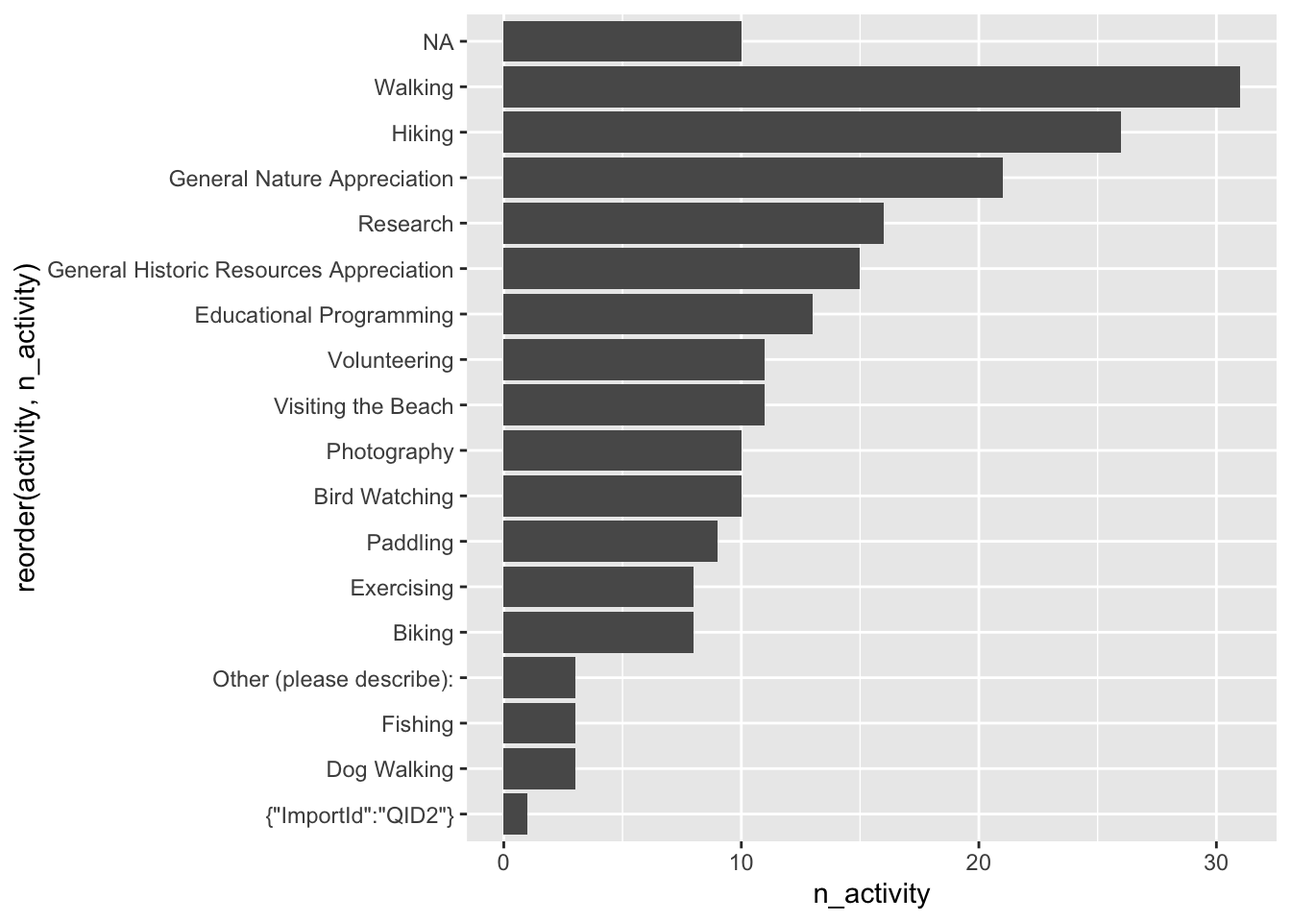
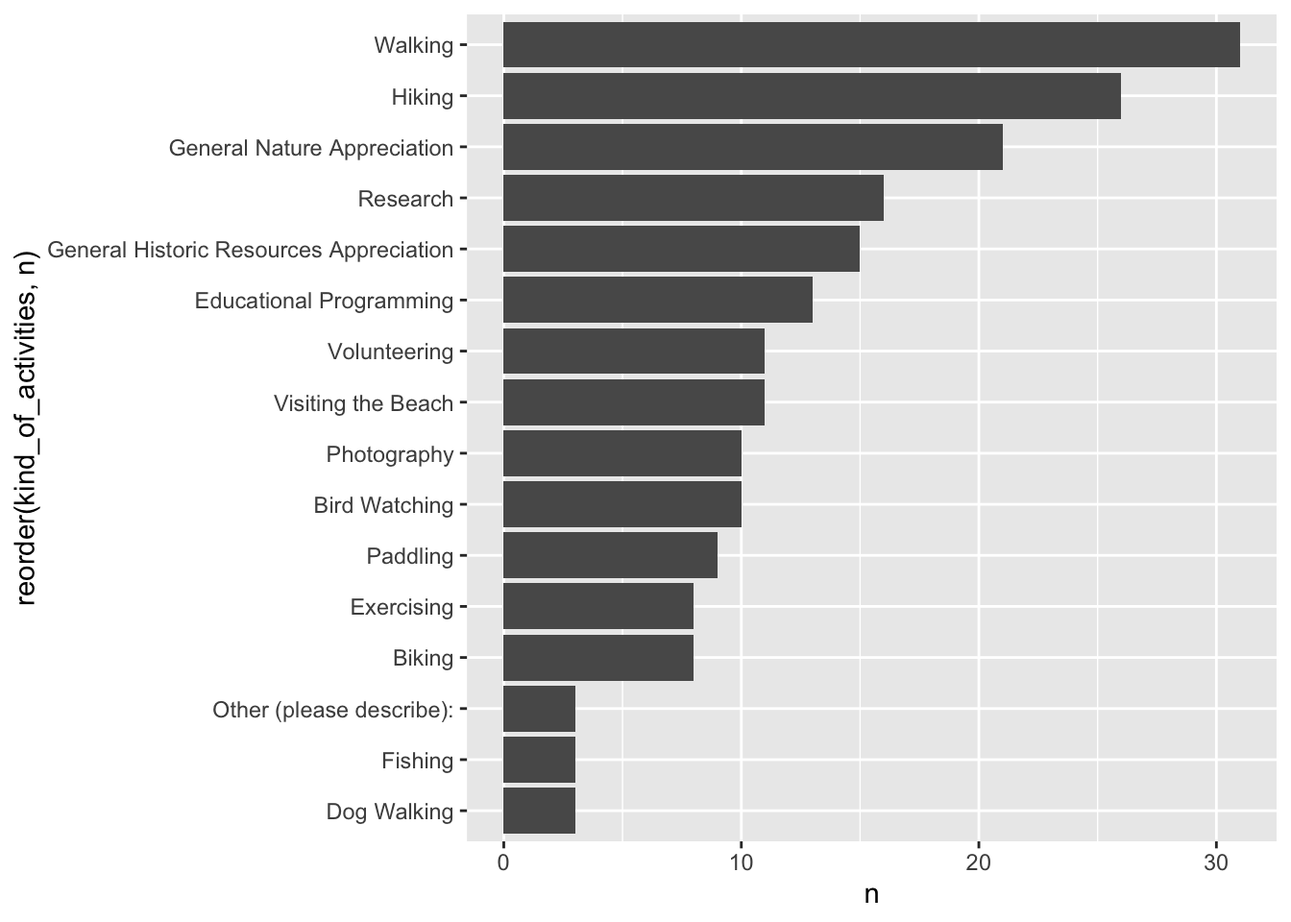
fix factors on age range

diff --git a/survey-data-analysis-nerr.html b/survey-data-analysis-nerr.html
@@ -142,7 +142,8 @@ The following objects are masked from 'package:stats':
 <div class="sourceCode cell-code" id="cb7"><pre class="sourceCode r code-with-copy"><code class="sourceCode r"><span id="cb7-1"><a href="#cb7-1" aria-hidden="true" tabindex="-1"></a><span class="co"># get the first row as the col names</span></span>
 <span id="cb7-2"><a href="#cb7-2" aria-hidden="true" tabindex="-1"></a>survey_data_q <span class="ot">&lt;-</span></span>
 <span id="cb7-3"><a href="#cb7-3" aria-hidden="true" tabindex="-1"></a>  survey_data <span class="sc">%&gt;%</span></span>
-<span id="cb7-4"><a href="#cb7-4" aria-hidden="true" tabindex="-1"></a>  <span class="fu">row_to_names</span>(<span class="at">row_number =</span> <span class="dv">1</span>)</span></code><button title="Copy to Clipboard" class="code-copy-button"><i class="bi"></i></button></pre></div>
+<span id="cb7-4"><a href="#cb7-4" aria-hidden="true" tabindex="-1"></a>  <span class="fu">row_to_names</span>(<span class="at">row_number =</span> <span class="dv">1</span>) <span class="sc">%&gt;%</span> </span>
+<span id="cb7-5"><a href="#cb7-5" aria-hidden="true" tabindex="-1"></a>  <span class="fu">slice</span>(<span class="sc">-</span><span class="dv">1</span>)</span></code><button title="Copy to Clipboard" class="code-copy-button"><i class="bi"></i></button></pre></div>
 </div>
 <div class="cell">
 <div class="sourceCode cell-code" id="cb8"><pre class="sourceCode r code-with-copy"><code class="sourceCode r"><span id="cb8-1"><a href="#cb8-1" aria-hidden="true" tabindex="-1"></a><span class="co"># Q1: Have you visited the GTM Research Reserve?</span></span>
@@ -158,20 +159,190 @@ The following objects are masked from 'package:stats':
 <div class="cell">
 <div class="sourceCode cell-code" id="cb9"><pre class="sourceCode r code-with-copy"><code class="sourceCode r"><span id="cb9-1"><a href="#cb9-1" aria-hidden="true" tabindex="-1"></a><span class="co"># Q2: When you come to the Guana Tolomato Matanzas (GTM) Research Reserve, what kind of activities do you engage in?</span></span>
 <span id="cb9-2"><a href="#cb9-2" aria-hidden="true" tabindex="-1"></a>survey_data_q  <span class="sc">%&gt;%</span></span>
-<span id="cb9-3"><a href="#cb9-3" aria-hidden="true" tabindex="-1"></a>  <span class="fu">select</span>(<span class="st">`</span><span class="at">When you visit the GTM Research Reserve, what kind of activities do you engage in? Check all that apply. - Selected Choice</span><span class="st">`</span>) <span class="sc">%&gt;%</span></span>
-<span id="cb9-4"><a href="#cb9-4" aria-hidden="true" tabindex="-1"></a><span class="fu">mutate</span>(<span class="at">activity =</span> <span class="fu">strsplit</span>(<span class="st">`</span><span class="at">When you visit the GTM Research Reserve, what kind of activities do you engage in? Check all that apply. - Selected Choice</span><span class="st">`</span>, <span class="st">","</span>)) <span class="sc">%&gt;%</span> </span>
-<span id="cb9-5"><a href="#cb9-5" aria-hidden="true" tabindex="-1"></a>  <span class="fu">unnest</span>(activity) <span class="sc">%&gt;%</span> </span>
-<span id="cb9-6"><a href="#cb9-6" aria-hidden="true" tabindex="-1"></a>  <span class="fu">mutate</span>(<span class="at">value =</span> <span class="dv">1</span>)  <span class="sc">%&gt;%</span> </span>
-<span id="cb9-7"><a href="#cb9-7" aria-hidden="true" tabindex="-1"></a>  <span class="fu">group_by</span>(activity) <span class="sc">%&gt;%</span> </span>
-<span id="cb9-8"><a href="#cb9-8" aria-hidden="true" tabindex="-1"></a>  <span class="fu">summarise</span>(<span class="at">n_activity =</span> <span class="fu">sum</span>(value)) <span class="sc">%&gt;%</span> </span>
-<span id="cb9-9"><a href="#cb9-9" aria-hidden="true" tabindex="-1"></a>  <span class="fu">ggplot</span>() <span class="sc">+</span></span>
-<span id="cb9-10"><a href="#cb9-10" aria-hidden="true" tabindex="-1"></a>    <span class="fu">aes</span>(<span class="fu">reorder</span>(activity, n_activity), n_activity) <span class="sc">+</span></span>
+<span id="cb9-3"><a href="#cb9-3" aria-hidden="true" tabindex="-1"></a>  <span class="fu">select</span>(<span class="at">kind_of_activities =</span> <span class="st">`</span><span class="at">When you visit the GTM Research Reserve, what kind of activities do you engage in? Check all that apply. - Selected Choice</span><span class="st">`</span>) <span class="sc">%&gt;%</span></span>
+<span id="cb9-4"><a href="#cb9-4" aria-hidden="true" tabindex="-1"></a>  <span class="fu">separate_rows</span>(kind_of_activities, <span class="at">sep =</span> <span class="st">","</span>) <span class="sc">%&gt;%</span> </span>
+<span id="cb9-5"><a href="#cb9-5" aria-hidden="true" tabindex="-1"></a>  <span class="fu">group_by</span>(kind_of_activities) <span class="sc">%&gt;%</span> </span>
+<span id="cb9-6"><a href="#cb9-6" aria-hidden="true" tabindex="-1"></a>  <span class="fu">summarise</span>(<span class="at">n =</span> <span class="fu">n</span>()) <span class="sc">%&gt;%</span> </span>
+<span id="cb9-7"><a href="#cb9-7" aria-hidden="true" tabindex="-1"></a>  <span class="fu">drop_na</span>() <span class="sc">%&gt;%</span> </span>
+<span id="cb9-8"><a href="#cb9-8" aria-hidden="true" tabindex="-1"></a>  <span class="fu">ggplot</span>() <span class="sc">+</span></span>
+<span id="cb9-9"><a href="#cb9-9" aria-hidden="true" tabindex="-1"></a>    <span class="fu">aes</span>(<span class="fu">reorder</span>(kind_of_activities, </span>
+<span id="cb9-10"><a href="#cb9-10" aria-hidden="true" tabindex="-1"></a>                n), n) <span class="sc">+</span></span>
 <span id="cb9-11"><a href="#cb9-11" aria-hidden="true" tabindex="-1"></a>    <span class="fu">geom_col</span>() <span class="sc">+</span></span>
 <span id="cb9-12"><a href="#cb9-12" aria-hidden="true" tabindex="-1"></a>  <span class="fu">coord_flip</span>()</span></code><button title="Copy to Clipboard" class="code-copy-button"><i class="bi"></i></button></pre></div>
 <div class="cell-output-display">
 <p><img src="survey-data-analysis-nerr_files/figure-html/unnamed-chunk-3-1.png" class="img-fluid" width="672"></p>
 </div>
 </div>
+<div class="cell">
+<div class="sourceCode cell-code" id="cb10"><pre class="sourceCode r code-with-copy"><code class="sourceCode r"><span id="cb10-1"><a href="#cb10-1" aria-hidden="true" tabindex="-1"></a><span class="co"># Q3: Have you heard of these cultures that used this area through time?</span></span>
+<span id="cb10-2"><a href="#cb10-2" aria-hidden="true" tabindex="-1"></a></span>
+<span id="cb10-3"><a href="#cb10-3" aria-hidden="true" tabindex="-1"></a>survey_data_q  <span class="sc">%&gt;%</span></span>
+<span id="cb10-4"><a href="#cb10-4" aria-hidden="true" tabindex="-1"></a>  <span class="co"># select the columns relevant to this question</span></span>
+<span id="cb10-5"><a href="#cb10-5" aria-hidden="true" tabindex="-1"></a>  <span class="fu">select</span>(<span class="fu">starts_with</span>(<span class="st">"Have you heard of these cultures that used this area through time?"</span>)) <span class="sc">%&gt;%</span></span>
+<span id="cb10-6"><a href="#cb10-6" aria-hidden="true" tabindex="-1"></a>  <span class="fu">pivot_longer</span>(<span class="fu">everything</span>()) <span class="sc">%&gt;%</span> </span>
+<span id="cb10-7"><a href="#cb10-7" aria-hidden="true" tabindex="-1"></a>  <span class="co"># remove some of the text that is reptitive here</span></span>
+<span id="cb10-8"><a href="#cb10-8" aria-hidden="true" tabindex="-1"></a>  <span class="fu">mutate</span>(<span class="at">name =</span> <span class="fu">str_remove_all</span>(name, <span class="st">"Have you heard of these cultures that used this area through time</span><span class="sc">\\</span><span class="st">? Please select the option that best describes your relationship with these cultures</span><span class="sc">\\</span><span class="st">. - "</span>)) <span class="sc">%&gt;%</span> </span>
+<span id="cb10-9"><a href="#cb10-9" aria-hidden="true" tabindex="-1"></a>  <span class="co"># omit NA</span></span>
+<span id="cb10-10"><a href="#cb10-10" aria-hidden="true" tabindex="-1"></a>  <span class="fu">drop_na</span>() <span class="sc">%&gt;%</span> </span>
+<span id="cb10-11"><a href="#cb10-11" aria-hidden="true" tabindex="-1"></a>  <span class="co"># omit spaces at the start and end of the text</span></span>
+<span id="cb10-12"><a href="#cb10-12" aria-hidden="true" tabindex="-1"></a>  <span class="fu">mutate</span>(<span class="at">value =</span> <span class="fu">str_squish</span>(value)) <span class="sc">%&gt;%</span> </span>
+<span id="cb10-13"><a href="#cb10-13" aria-hidden="true" tabindex="-1"></a>  <span class="co"># order a factor so that the plot has logically ordered bars</span></span>
+<span id="cb10-14"><a href="#cb10-14" aria-hidden="true" tabindex="-1"></a>  <span class="fu">mutate</span>(<span class="at">value =</span> <span class="fu">fct_relevel</span>(value, </span>
+<span id="cb10-15"><a href="#cb10-15" aria-hidden="true" tabindex="-1"></a>                             <span class="fu">c</span>(<span class="st">"I identify as a descendant of this culture."</span>,</span>
+<span id="cb10-16"><a href="#cb10-16" aria-hidden="true" tabindex="-1"></a>                               <span class="st">"I am familiar with this culture."</span>,</span>
+<span id="cb10-17"><a href="#cb10-17" aria-hidden="true" tabindex="-1"></a>                               <span class="st">"I have heard of this culture."</span>,</span>
+<span id="cb10-18"><a href="#cb10-18" aria-hidden="true" tabindex="-1"></a>                               <span class="st">"I have never heard of this culture."</span>))) <span class="sc">%&gt;%</span> </span>
+<span id="cb10-19"><a href="#cb10-19" aria-hidden="true" tabindex="-1"></a>  <span class="co"># tally up</span></span>
+<span id="cb10-20"><a href="#cb10-20" aria-hidden="true" tabindex="-1"></a>  <span class="fu">group_by</span>(name, value) <span class="sc">%&gt;%</span> </span>
+<span id="cb10-21"><a href="#cb10-21" aria-hidden="true" tabindex="-1"></a>  <span class="fu">summarise</span>(<span class="at">n =</span> <span class="fu">n</span>()) <span class="sc">%&gt;%</span> </span>
+<span id="cb10-22"><a href="#cb10-22" aria-hidden="true" tabindex="-1"></a>  <span class="co"># plot</span></span>
+<span id="cb10-23"><a href="#cb10-23" aria-hidden="true" tabindex="-1"></a>  <span class="fu">ggplot</span>() <span class="sc">+</span></span>
+<span id="cb10-24"><a href="#cb10-24" aria-hidden="true" tabindex="-1"></a>    <span class="fu">aes</span>(value, n) <span class="sc">+</span></span>
+<span id="cb10-25"><a href="#cb10-25" aria-hidden="true" tabindex="-1"></a>    <span class="fu">geom_col</span>() <span class="sc">+</span></span>
+<span id="cb10-26"><a href="#cb10-26" aria-hidden="true" tabindex="-1"></a>    <span class="fu">coord_flip</span>() <span class="sc">+</span></span>
+<span id="cb10-27"><a href="#cb10-27" aria-hidden="true" tabindex="-1"></a>    <span class="fu">facet_wrap</span>( <span class="sc">~</span> name)</span></code><button title="Copy to Clipboard" class="code-copy-button"><i class="bi"></i></button></pre></div>
+<div class="cell-output cell-output-stderr">
+<pre><code>`summarise()` has grouped output by 'name'. You can override using the
+`.groups` argument.</code></pre>
+</div>
+<div class="cell-output-display">
+<p><img src="survey-data-analysis-nerr_files/figure-html/unnamed-chunk-4-1.png" class="img-fluid" width="672"></p>
+</div>
+</div>
+<div class="cell">
+<div class="sourceCode cell-code" id="cb12"><pre class="sourceCode r code-with-copy"><code class="sourceCode r"><span id="cb12-1"><a href="#cb12-1" aria-hidden="true" tabindex="-1"></a><span class="co"># Q4: How familiar are you with these types of cultural resources?</span></span>
+<span id="cb12-2"><a href="#cb12-2" aria-hidden="true" tabindex="-1"></a></span>
+<span id="cb12-3"><a href="#cb12-3" aria-hidden="true" tabindex="-1"></a>survey_data_q  <span class="sc">%&gt;%</span></span>
+<span id="cb12-4"><a href="#cb12-4" aria-hidden="true" tabindex="-1"></a>  <span class="co"># select the columns relevant to this question</span></span>
+<span id="cb12-5"><a href="#cb12-5" aria-hidden="true" tabindex="-1"></a>  <span class="fu">select</span>(<span class="fu">starts_with</span>(<span class="st">"How familiar are you with these types of cultural resources?"</span>)) <span class="sc">%&gt;%</span></span>
+<span id="cb12-6"><a href="#cb12-6" aria-hidden="true" tabindex="-1"></a>  <span class="fu">pivot_longer</span>(<span class="fu">everything</span>()) <span class="sc">%&gt;%</span> </span>
+<span id="cb12-7"><a href="#cb12-7" aria-hidden="true" tabindex="-1"></a>  <span class="co"># remove some of the text that is reptitive here</span></span>
+<span id="cb12-8"><a href="#cb12-8" aria-hidden="true" tabindex="-1"></a>  <span class="fu">mutate</span>(<span class="at">name =</span> <span class="fu">str_remove_all</span>(name, <span class="st">"How familiar are you with these types of cultural resources</span><span class="sc">\\</span><span class="st">? - "</span>)) <span class="sc">%&gt;%</span> </span>
+<span id="cb12-9"><a href="#cb12-9" aria-hidden="true" tabindex="-1"></a>  <span class="co"># omit NA</span></span>
+<span id="cb12-10"><a href="#cb12-10" aria-hidden="true" tabindex="-1"></a>  <span class="fu">drop_na</span>() <span class="sc">%&gt;%</span> </span>
+<span id="cb12-11"><a href="#cb12-11" aria-hidden="true" tabindex="-1"></a>  <span class="co"># omit spaces at the start and end of the text</span></span>
+<span id="cb12-12"><a href="#cb12-12" aria-hidden="true" tabindex="-1"></a>  <span class="fu">mutate</span>(<span class="at">value =</span> <span class="fu">str_squish</span>(value)) <span class="sc">%&gt;%</span> </span>
+<span id="cb12-13"><a href="#cb12-13" aria-hidden="true" tabindex="-1"></a>  <span class="co"># order a factor so that the plot has logically ordered bars</span></span>
+<span id="cb12-14"><a href="#cb12-14" aria-hidden="true" tabindex="-1"></a> <span class="fu">mutate</span>(<span class="at">value =</span> <span class="fu">fct_relevel</span>(value,</span>
+<span id="cb12-15"><a href="#cb12-15" aria-hidden="true" tabindex="-1"></a>                            <span class="fu">c</span>(<span class="st">"Extremely familiar"</span>,</span>
+<span id="cb12-16"><a href="#cb12-16" aria-hidden="true" tabindex="-1"></a>                              <span class="st">"Very familiar"</span>,</span>
+<span id="cb12-17"><a href="#cb12-17" aria-hidden="true" tabindex="-1"></a>                              <span class="st">"Slightly familiar"</span>,</span>
+<span id="cb12-18"><a href="#cb12-18" aria-hidden="true" tabindex="-1"></a>                              <span class="st">"Moderately familiar"</span>,</span>
+<span id="cb12-19"><a href="#cb12-19" aria-hidden="true" tabindex="-1"></a>                              <span class="st">"Not familiar at all"</span>))) <span class="sc">%&gt;%</span></span>
+<span id="cb12-20"><a href="#cb12-20" aria-hidden="true" tabindex="-1"></a>  <span class="co"># tally up</span></span>
+<span id="cb12-21"><a href="#cb12-21" aria-hidden="true" tabindex="-1"></a>  <span class="fu">group_by</span>(name, value) <span class="sc">%&gt;%</span> </span>
+<span id="cb12-22"><a href="#cb12-22" aria-hidden="true" tabindex="-1"></a>  <span class="fu">summarise</span>(<span class="at">n =</span> <span class="fu">n</span>()) <span class="sc">%&gt;%</span> </span>
+<span id="cb12-23"><a href="#cb12-23" aria-hidden="true" tabindex="-1"></a>  <span class="co"># plot</span></span>
+<span id="cb12-24"><a href="#cb12-24" aria-hidden="true" tabindex="-1"></a>  <span class="fu">ggplot</span>() <span class="sc">+</span></span>
+<span id="cb12-25"><a href="#cb12-25" aria-hidden="true" tabindex="-1"></a>    <span class="fu">aes</span>(value, n) <span class="sc">+</span></span>
+<span id="cb12-26"><a href="#cb12-26" aria-hidden="true" tabindex="-1"></a>    <span class="fu">geom_col</span>() <span class="sc">+</span></span>
+<span id="cb12-27"><a href="#cb12-27" aria-hidden="true" tabindex="-1"></a>    <span class="fu">coord_flip</span>() <span class="sc">+</span></span>
+<span id="cb12-28"><a href="#cb12-28" aria-hidden="true" tabindex="-1"></a>    <span class="fu">facet_wrap</span>( <span class="sc">~</span> name)</span></code><button title="Copy to Clipboard" class="code-copy-button"><i class="bi"></i></button></pre></div>
+<div class="cell-output cell-output-stderr">
+<pre><code>`summarise()` has grouped output by 'name'. You can override using the
+`.groups` argument.</code></pre>
+</div>
+<div class="cell-output-display">
+<p><img src="survey-data-analysis-nerr_files/figure-html/unnamed-chunk-5-1.png" class="img-fluid" width="672"></p>
+</div>
+</div>
+<div class="cell">
+<div class="sourceCode cell-code" id="cb14"><pre class="sourceCode r code-with-copy"><code class="sourceCode r"><span id="cb14-1"><a href="#cb14-1" aria-hidden="true" tabindex="-1"></a><span class="co"># Q5: Have you encountered any of these cultural resources while at the GTM Research Reserve? </span></span>
+<span id="cb14-2"><a href="#cb14-2" aria-hidden="true" tabindex="-1"></a></span>
+<span id="cb14-3"><a href="#cb14-3" aria-hidden="true" tabindex="-1"></a>survey_data_q <span class="sc">%&gt;%</span> </span>
+<span id="cb14-4"><a href="#cb14-4" aria-hidden="true" tabindex="-1"></a>  <span class="fu">select</span>(<span class="fu">starts_with</span>(<span class="st">"Have you encountered any of these cultural resources while at the GTM Research Reserve?"</span>)) <span class="sc">%&gt;%</span></span>
+<span id="cb14-5"><a href="#cb14-5" aria-hidden="true" tabindex="-1"></a>  <span class="fu">pivot_longer</span>(<span class="fu">everything</span>()) <span class="sc">%&gt;%</span> </span>
+<span id="cb14-6"><a href="#cb14-6" aria-hidden="true" tabindex="-1"></a>  <span class="fu">mutate</span>(<span class="at">name =</span> <span class="fu">str_remove_all</span>(name, <span class="st">"Have you encountered any of these cultural resources while at the GTM Research Reserve</span><span class="sc">\\</span><span class="st">? - "</span>)) <span class="sc">%&gt;%</span> </span>
+<span id="cb14-7"><a href="#cb14-7" aria-hidden="true" tabindex="-1"></a>  <span class="fu">drop_na</span>() <span class="sc">%&gt;%</span> </span>
+<span id="cb14-8"><a href="#cb14-8" aria-hidden="true" tabindex="-1"></a>  <span class="fu">mutate</span>(<span class="at">value =</span> <span class="fu">str_squish</span>(value)) <span class="sc">%&gt;%</span> </span>
+<span id="cb14-9"><a href="#cb14-9" aria-hidden="true" tabindex="-1"></a> <span class="fu">mutate</span>(<span class="at">value =</span> <span class="fu">fct_relevel</span>(value,</span>
+<span id="cb14-10"><a href="#cb14-10" aria-hidden="true" tabindex="-1"></a>                            <span class="fu">c</span>(<span class="st">"Never Encountered"</span>,</span>
+<span id="cb14-11"><a href="#cb14-11" aria-hidden="true" tabindex="-1"></a>                              <span class="st">"Rarely Encountered"</span>,</span>
+<span id="cb14-12"><a href="#cb14-12" aria-hidden="true" tabindex="-1"></a>                              <span class="st">"Frequently Encountered"</span>,</span>
+<span id="cb14-13"><a href="#cb14-13" aria-hidden="true" tabindex="-1"></a>                              <span class="st">"Unsure"</span>))) <span class="sc">%&gt;%</span></span>
+<span id="cb14-14"><a href="#cb14-14" aria-hidden="true" tabindex="-1"></a>  <span class="fu">group_by</span>(name, value) <span class="sc">%&gt;%</span> </span>
+<span id="cb14-15"><a href="#cb14-15" aria-hidden="true" tabindex="-1"></a>  <span class="fu">summarise</span>(<span class="at">n =</span> <span class="fu">n</span>()) <span class="sc">%&gt;%</span> </span>
+<span id="cb14-16"><a href="#cb14-16" aria-hidden="true" tabindex="-1"></a>  <span class="co"># plot</span></span>
+<span id="cb14-17"><a href="#cb14-17" aria-hidden="true" tabindex="-1"></a>  <span class="fu">ggplot</span>() <span class="sc">+</span></span>
+<span id="cb14-18"><a href="#cb14-18" aria-hidden="true" tabindex="-1"></a>    <span class="fu">aes</span>(value, n) <span class="sc">+</span></span>
+<span id="cb14-19"><a href="#cb14-19" aria-hidden="true" tabindex="-1"></a>    <span class="fu">geom_col</span>() <span class="sc">+</span></span>
+<span id="cb14-20"><a href="#cb14-20" aria-hidden="true" tabindex="-1"></a>    <span class="fu">coord_flip</span>() <span class="sc">+</span></span>
+<span id="cb14-21"><a href="#cb14-21" aria-hidden="true" tabindex="-1"></a>    <span class="fu">facet_wrap</span>( <span class="sc">~</span> name)</span></code><button title="Copy to Clipboard" class="code-copy-button"><i class="bi"></i></button></pre></div>
+<div class="cell-output cell-output-stderr">
+<pre><code>`summarise()` has grouped output by 'name'. You can override using the
+`.groups` argument.</code></pre>
+</div>
+<div class="cell-output-display">
+<p><img src="survey-data-analysis-nerr_files/figure-html/unnamed-chunk-6-1.png" class="img-fluid" width="672"></p>
+</div>
+</div>
+<section id="demographics" class="level2">
+<h2 class="anchored" data-anchor-id="demographics">Demographics</h2>
+<p>Age Range</p>
+<div class="cell">
+<div class="sourceCode cell-code" id="cb16"><pre class="sourceCode r code-with-copy"><code class="sourceCode r"><span id="cb16-1"><a href="#cb16-1" aria-hidden="true" tabindex="-1"></a>survey_data_q  <span class="sc">%&gt;%</span></span>
+<span id="cb16-2"><a href="#cb16-2" aria-hidden="true" tabindex="-1"></a>  <span class="fu">select</span>(<span class="fu">starts_with</span>(<span class="st">"Age Range"</span>)) <span class="sc">%&gt;%</span></span>
+<span id="cb16-3"><a href="#cb16-3" aria-hidden="true" tabindex="-1"></a>  <span class="fu">pivot_longer</span>(<span class="fu">everything</span>()) <span class="sc">%&gt;%</span></span>
+<span id="cb16-4"><a href="#cb16-4" aria-hidden="true" tabindex="-1"></a>  <span class="fu">mutate</span>(<span class="at">name =</span> <span class="fu">str_remove_all</span>(name, <span class="st">"Age Range"</span>)) <span class="sc">%&gt;%</span> </span>
+<span id="cb16-5"><a href="#cb16-5" aria-hidden="true" tabindex="-1"></a>  <span class="co"># should I drop NA's here?</span></span>
+<span id="cb16-6"><a href="#cb16-6" aria-hidden="true" tabindex="-1"></a>  <span class="fu">drop_na</span>() <span class="sc">%&gt;%</span> </span>
+<span id="cb16-7"><a href="#cb16-7" aria-hidden="true" tabindex="-1"></a><span class="fu">mutate</span>(<span class="at">value =</span> <span class="fu">str_squish</span>(value)) <span class="sc">%&gt;%</span> </span>
+<span id="cb16-8"><a href="#cb16-8" aria-hidden="true" tabindex="-1"></a> <span class="fu">mutate</span>(<span class="at">value =</span> <span class="fu">fct_relevel</span>(value,</span>
+<span id="cb16-9"><a href="#cb16-9" aria-hidden="true" tabindex="-1"></a>                            <span class="fu">c</span>(<span class="st">"18 - 29"</span>,</span>
+<span id="cb16-10"><a href="#cb16-10" aria-hidden="true" tabindex="-1"></a>                              <span class="st">"30 - 39"</span>,</span>
+<span id="cb16-11"><a href="#cb16-11" aria-hidden="true" tabindex="-1"></a>                              <span class="st">"40 - 49"</span>,</span>
+<span id="cb16-12"><a href="#cb16-12" aria-hidden="true" tabindex="-1"></a>                              <span class="st">"50 - 59"</span>,</span>
+<span id="cb16-13"><a href="#cb16-13" aria-hidden="true" tabindex="-1"></a>                              <span class="st">"60 - 69"</span>,</span>
+<span id="cb16-14"><a href="#cb16-14" aria-hidden="true" tabindex="-1"></a>                              <span class="st">"70 - 79"</span>,</span>
+<span id="cb16-15"><a href="#cb16-15" aria-hidden="true" tabindex="-1"></a>                              <span class="st">"80 or older"</span>))) <span class="sc">%&gt;%</span></span>
+<span id="cb16-16"><a href="#cb16-16" aria-hidden="true" tabindex="-1"></a>   <span class="fu">group_by</span>(name, value) <span class="sc">%&gt;%</span> </span>
+<span id="cb16-17"><a href="#cb16-17" aria-hidden="true" tabindex="-1"></a>  <span class="fu">summarise</span>(<span class="at">n =</span> <span class="fu">n</span>()) <span class="sc">%&gt;%</span> </span>
+<span id="cb16-18"><a href="#cb16-18" aria-hidden="true" tabindex="-1"></a>  <span class="co"># plot</span></span>
+<span id="cb16-19"><a href="#cb16-19" aria-hidden="true" tabindex="-1"></a>  <span class="fu">ggplot</span>() <span class="sc">+</span></span>
+<span id="cb16-20"><a href="#cb16-20" aria-hidden="true" tabindex="-1"></a>    <span class="fu">aes</span>(value, n) <span class="sc">+</span></span>
+<span id="cb16-21"><a href="#cb16-21" aria-hidden="true" tabindex="-1"></a>    <span class="fu">geom_col</span>() <span class="sc">+</span></span>
+<span id="cb16-22"><a href="#cb16-22" aria-hidden="true" tabindex="-1"></a>    <span class="fu">coord_flip</span>() <span class="sc">+</span></span>
+<span id="cb16-23"><a href="#cb16-23" aria-hidden="true" tabindex="-1"></a>    <span class="fu">facet_wrap</span>( <span class="sc">~</span> name)</span></code><button title="Copy to Clipboard" class="code-copy-button"><i class="bi"></i></button></pre></div>
+<div class="cell-output cell-output-stderr">
+<pre><code>`summarise()` has grouped output by 'name'. You can override using the
+`.groups` argument.</code></pre>
+</div>
+<div class="cell-output-display">
+<p><img src="survey-data-analysis-nerr_files/figure-html/unnamed-chunk-7-1.png" class="img-fluid" width="672"></p>
+</div>
+</div>
+<p>Ethnicity</p>
+<p>Gender Identity</p>
+<div class="cell">
+<div class="sourceCode cell-code" id="cb18"><pre class="sourceCode r code-with-copy"><code class="sourceCode r"><span id="cb18-1"><a href="#cb18-1" aria-hidden="true" tabindex="-1"></a>survey_data_q <span class="sc">%&gt;%</span> </span>
+<span id="cb18-2"><a href="#cb18-2" aria-hidden="true" tabindex="-1"></a>  <span class="fu">select</span>(<span class="fu">starts_with</span>(<span class="st">"Gender Identity - Selected Choice"</span>)) <span class="sc">%&gt;%</span></span>
+<span id="cb18-3"><a href="#cb18-3" aria-hidden="true" tabindex="-1"></a>  <span class="fu">pivot_longer</span>(<span class="fu">everything</span>()) <span class="sc">%&gt;%</span> </span>
+<span id="cb18-4"><a href="#cb18-4" aria-hidden="true" tabindex="-1"></a>  <span class="fu">mutate</span>(<span class="at">name =</span> <span class="fu">str_remove_all</span>(name, <span class="st">"Gender Identity - Selected Choice"</span>)) <span class="sc">%&gt;%</span> </span>
+<span id="cb18-5"><a href="#cb18-5" aria-hidden="true" tabindex="-1"></a>  <span class="fu">drop_na</span>() <span class="sc">%&gt;%</span> </span>
+<span id="cb18-6"><a href="#cb18-6" aria-hidden="true" tabindex="-1"></a>  <span class="fu">mutate</span>(<span class="at">value =</span> <span class="fu">str_squish</span>(value)) <span class="sc">%&gt;%</span> </span>
+<span id="cb18-7"><a href="#cb18-7" aria-hidden="true" tabindex="-1"></a> <span class="fu">mutate</span>(<span class="at">value =</span> <span class="fu">fct_relevel</span>(value,</span>
+<span id="cb18-8"><a href="#cb18-8" aria-hidden="true" tabindex="-1"></a>                            <span class="fu">c</span>(<span class="st">"Female"</span>,</span>
+<span id="cb18-9"><a href="#cb18-9" aria-hidden="true" tabindex="-1"></a>                              <span class="st">"Male"</span>,</span>
+<span id="cb18-10"><a href="#cb18-10" aria-hidden="true" tabindex="-1"></a>                              <span class="st">"Prefer not to say"</span>))) <span class="sc">%&gt;%</span></span>
+<span id="cb18-11"><a href="#cb18-11" aria-hidden="true" tabindex="-1"></a>  <span class="fu">group_by</span>(name, value) <span class="sc">%&gt;%</span> </span>
+<span id="cb18-12"><a href="#cb18-12" aria-hidden="true" tabindex="-1"></a>  <span class="fu">summarise</span>(<span class="at">n =</span> <span class="fu">n</span>()) <span class="sc">%&gt;%</span> </span>
+<span id="cb18-13"><a href="#cb18-13" aria-hidden="true" tabindex="-1"></a>  <span class="co"># plot</span></span>
+<span id="cb18-14"><a href="#cb18-14" aria-hidden="true" tabindex="-1"></a>  <span class="fu">ggplot</span>() <span class="sc">+</span></span>
+<span id="cb18-15"><a href="#cb18-15" aria-hidden="true" tabindex="-1"></a>    <span class="fu">aes</span>(value, n) <span class="sc">+</span></span>
+<span id="cb18-16"><a href="#cb18-16" aria-hidden="true" tabindex="-1"></a>    <span class="fu">geom_col</span>() <span class="sc">+</span></span>
+<span id="cb18-17"><a href="#cb18-17" aria-hidden="true" tabindex="-1"></a>    <span class="fu">coord_flip</span>() <span class="sc">+</span></span>
+<span id="cb18-18"><a href="#cb18-18" aria-hidden="true" tabindex="-1"></a>    <span class="fu">facet_wrap</span>( <span class="sc">~</span> name)</span></code><button title="Copy to Clipboard" class="code-copy-button"><i class="bi"></i></button></pre></div>
+<div class="cell-output cell-output-stderr">
+<pre><code>`summarise()` has grouped output by 'name'. You can override using the
+`.groups` argument.</code></pre>
+</div>
+<div class="cell-output-display">
+<p><img src="survey-data-analysis-nerr_files/figure-html/unnamed-chunk-8-1.png" class="img-fluid" width="672"></p>
+</div>
+</div>
+<p>(Gender Identity - Prefer to self-identify as: - Text)</p>
+<p>highest degree or level of schooling</p>
+</section>
 
 </main>
 <!-- /main column -->
